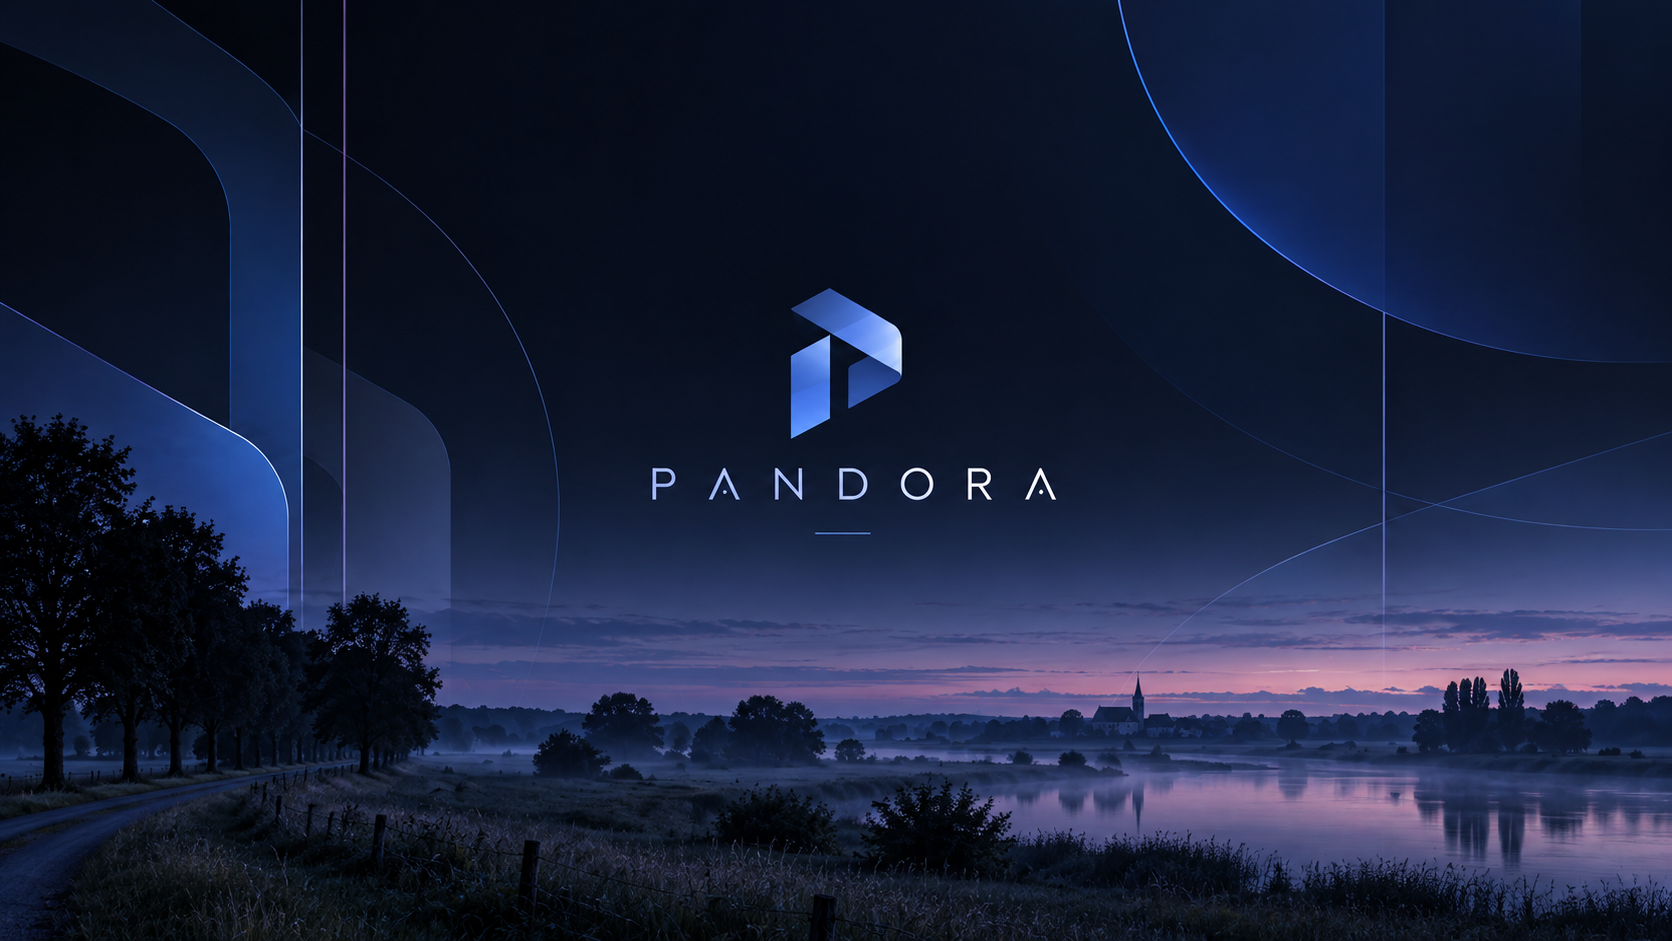
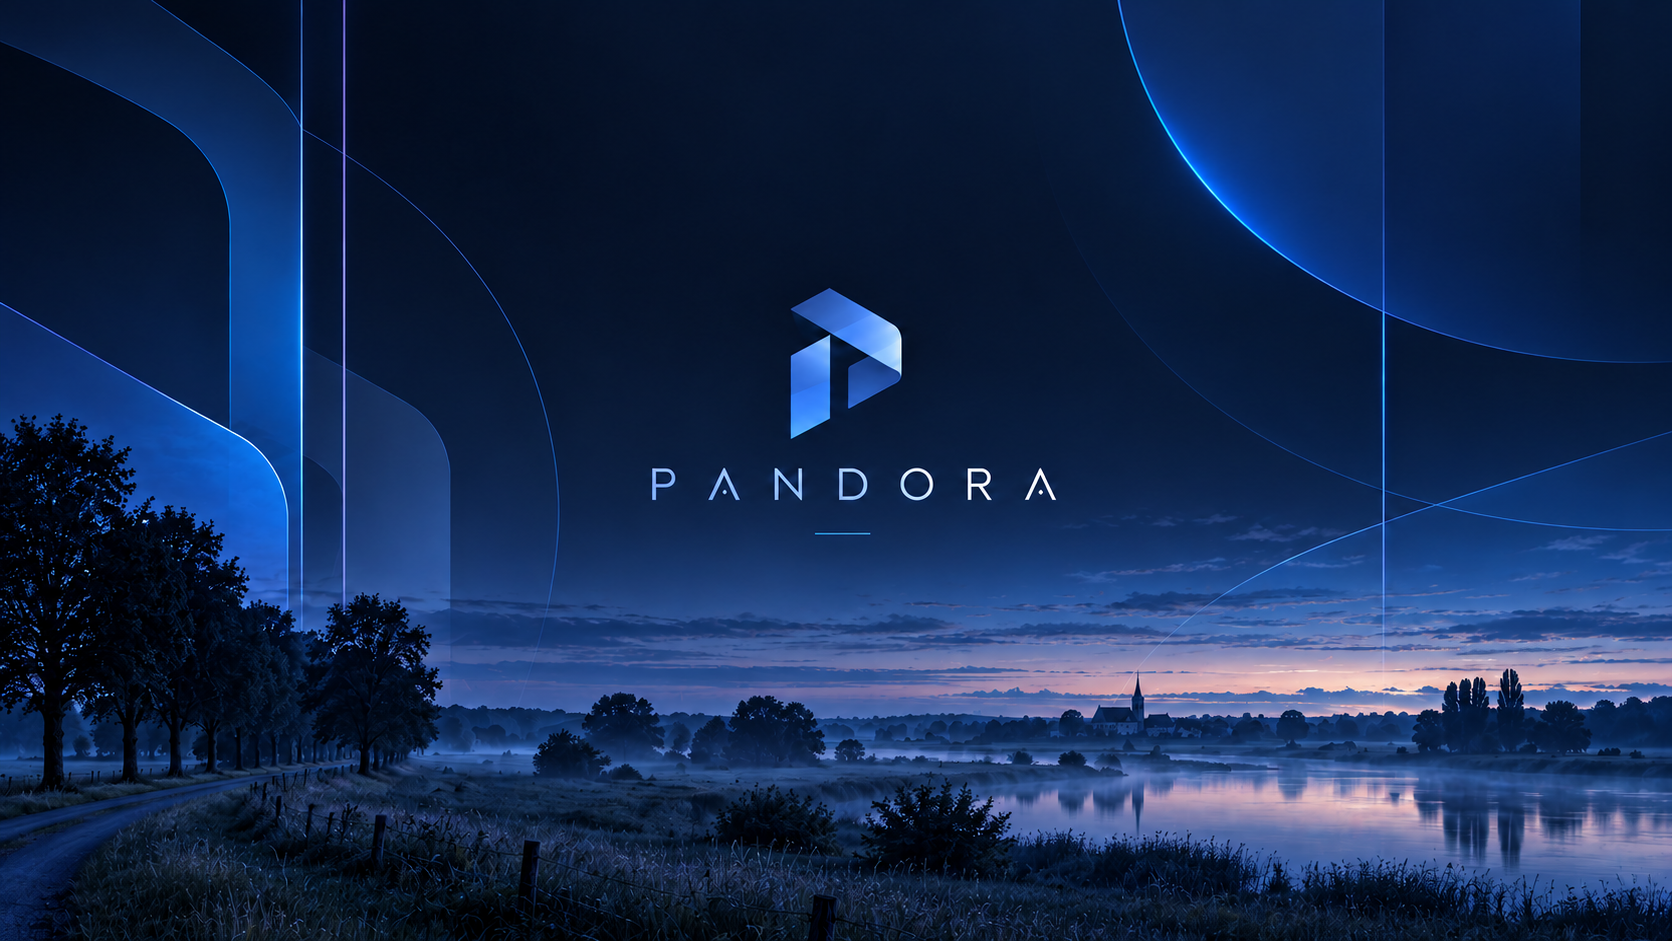
DMS Config and Docker ISO Build

diff --git a/iso.py b/iso.py
@@ -1,8 +1,8 @@
 #!/usr/bin/env python3
 """Build a Fedora netinstall remix from config/, kickstart/ and payload/.
 
-Only local input checks run on other systems. ISO creation requires Fedora 44;
-mkksiso is the only build operation that needs sudo.
+Native ISO creation requires Fedora 44. Other Linux hosts can use the Docker
+builder; mkksiso and its output ownership correction are the only sudo steps.
 """
 import argparse
 import ast
@@ -344,11 +344,78 @@ def verify_iso(root, stage, source_iso, iso, work):
     run("checkisomd5", "--verbose", iso)
 
 
+@contextmanager
+def docker_loop(image):
+    # The short-lived control helper has no repository mounts or network access.
+    control = ("docker", "run", "--rm", "--network", "none", "--read-only", "--user", "0:0",
+               "--cap-drop", "ALL", "--cap-add", "SYS_ADMIN", "--device", "/dev/loop-control",
+               image, "python3", "-c")
+    allocate = """import fcntl, json
+from pathlib import Path
+existing = {path.name for path in Path('/sys/block').glob('loop[0-9]*')}
+with open('/dev/loop-control', 'rb') as control:
+    index = fcntl.ioctl(control, 0x4C82)  # LOOP_CTL_GET_FREE
+major, minor = map(int, Path(f'/sys/block/loop{index}/dev').read_text().strip().split(':'))
+print(json.dumps([index, major, minor, f'loop{index}' not in existing]))
+"""
+    index, major, minor, created = json.loads(run(*control, allocate, capture=True))
+    print(f"Docker builder using /dev/loop{index} ({major}:{minor})", flush=True)
+    try:
+        yield index, major, minor
+    finally:
+        if created:
+            # Remove only a newly created, idle device. Never force-detach a host mapping.
+            release = """import fcntl, sys
+with open('/dev/loop-control', 'rb') as control:
+    fcntl.ioctl(control, 0x4C81, int(sys.argv[1]))  # LOOP_CTL_REMOVE fails if busy
+"""
+            run(*control, release, index)
+
+
+def build_docker(root):
+    if platform.system() != "Linux" or platform.machine() != "x86_64" or os.geteuid() == 0 or os.getegid() == 0:
+        raise ValueError("Docker builds require a normal user on Linux/x86_64")
+    if not shutil.which("docker") or not Path("/dev/loop-control").exists():
+        raise ValueError("Docker builds require Docker and /dev/loop-control; see README.md")
+    endpoint = run("docker", "context", "inspect", "--format", "{{.Endpoints.docker.Host}}", capture=True).strip()
+    if (not endpoint.startswith("unix://") or
+            (os.environ.get("DOCKER_HOST") and not os.environ["DOCKER_HOST"].startswith("unix://"))):
+        raise ValueError("Docker builds require a local Docker daemon, not a remote context")
+    security = json.loads(run("docker", "info", "--format", "{{json .SecurityOptions}}", capture=True))
+    if any("rootless" in option or "userns" in option for option in security):
+        raise ValueError("Rootless Docker and user namespace remapping cannot manage host loop devices")
+    if ":" in str(root):
+        raise ValueError("Docker bind-mount paths must not contain a colon")
+    uid, gid = os.getuid(), os.getgid()
+    image = f"pandora-builder:f44-{uid}-{gid}"
+    run("docker", "build", "--platform", "linux/amd64", "--build-arg", f"BUILD_UID={uid}",
+        "--build-arg", f"BUILD_GID={gid}", "--tag", image, "--file", root / "Dockerfile", root)
+    writable = [directory(root / name) for name in ("cache", "build", "artifacts")]
+    with docker_loop(image) as (index, major, minor):
+        args = ["docker", "run", "--rm", "--init", "--user", "0:0", "--cap-drop", "ALL"]
+        for capability in ("SYS_ADMIN", "MKNOD", "DAC_OVERRIDE", "FOWNER", "CHOWN", "SETUID", "SETGID"):
+            args.extend(("--cap-add", capability))
+        args.extend(("--device-cgroup-rule", f"b {major}:{minor} rwm", "--volume", f"{root}:/work:ro"))
+        for path in writable:
+            args.extend(("--volume", f"{path}:/work/{path.name}:rw"))
+        # Create only the permitted node, then drop to the host user's UID/GID before make iso.
+        start = """import os, stat, sys
+index, major, minor, uid, gid = map(int, sys.argv[1:])
+os.mknod(f'/dev/loop{index}', stat.S_IFBLK | 0o600, os.makedev(major, minor))
+os.setgroups([])
+os.setgid(gid)
+os.setuid(uid)
+os.execv('/usr/bin/make', ['make', 'iso'])
+"""
+        run(*args, image, "python3", "-c", start, index, major, minor, uid, gid)
+
+
 def build(root):
     build_environment(root)
     build_dir = directory(root / "build")
     artifacts = directory(root / "artifacts")
-    with locked(build_dir / ".iso.lock"), tempfile.TemporaryDirectory(prefix="iso-", dir=build_dir) as temporary:
+    # Stage on the output filesystem so atomic publication also works across Docker bind mounts.
+    with locked(build_dir / ".iso.lock"), tempfile.TemporaryDirectory(prefix=".iso-", dir=artifacts) as temporary:
         work = Path(temporary)
         stage = work / "stage"
         stage.mkdir(mode=0o755)
@@ -391,13 +458,15 @@ def build(root):
 
 if __name__ == "__main__":
     parser = argparse.ArgumentParser(description=__doc__)
-    parser.add_argument("action", choices=("check", "build"))
+    parser.add_argument("action", choices=("check", "build", "build-docker"))
     args = parser.parse_args()
     os.environ["LC_ALL"] = "C"
     os.environ["PYTHONDONTWRITEBYTECODE"] = "1"
     try:
         if args.action == "build":
             build(ROOT)
+        elif args.action == "build-docker":
+            build_docker(ROOT)
         else:
             with tempfile.TemporaryDirectory(prefix="pandora-check-") as temporary:
                 check(ROOT, Path(temporary))

diff --git a/README.md b/README.md
@@ -4,7 +4,7 @@ Philipp's Adaptive Native Desktop, built on Fedora.
 
 My personal Fedora remix. Pandora combines a lightweight Fedora base with Hyprland and DankMaterialShell, my terminal setup, and a few carefully chosen defaults. This repository describes the system and builds a custom installation ISO. Use it as a starting point for your own setup.
 
-![Pandora Linux wallpaper](payload/files/usr/share/backgrounds/pandora/wallpaper.png)
+![Pandora Linux desktop](assets/pandora-desktop.png)
 
 ## What's included
 
@@ -27,7 +27,8 @@ This setup has been manually tested for my own use. Before installing it on your
 .
 ├── README.md                      Usage, build, and customization
 ├── AGENTS.md                      Development guidelines
-├── Makefile                       make check, make iso, make clean
+├── Makefile                       make check, make iso, make iso-docker, make clean
+├── Dockerfile                     Fedora 44 build tools, without product files
 ├── iso.py                         Source verification, payload, and ISO build
 ├── config/
 │   ├── profile.json               Language, keyboard, time zone, and ISO name
@@ -48,9 +49,11 @@ This setup has been manually tested for my own use. Before installing it on your
 
 ## Build the ISO
 
-Use a Fedora 44 VM or Fedora 44 x86_64 machine with a regular user account that can use sudo and at least 20 GiB of free space. You can edit the repository on another host, but the ISO must be built on Fedora. The script rejects other releases and refuses to run as root.
+ISO builds run on Fedora 44/x86_64 as a regular user and require at least 20 GiB of free space. Use a Fedora machine or the Docker builder on another Linux host. The Fedora release and non-root checks apply in both cases.
 
-Install the build tools once in the Fedora build environment:
+### Native Fedora build
+
+Use a Fedora 44 VM or Fedora 44 x86_64 machine with a regular user account that can use sudo. Install the build tools once:
 
 ```bash
 sudo dnf install lorax xorriso isomd5sum pykickstart ShellCheck \
@@ -63,6 +66,22 @@ From the cloned project directory:
 make check
 make iso
 ```
+
+### Docker build on Linux
+
+On a Linux/x86_64 host with a running local, rootful Docker daemon, Python 3, Make, and `/dev/loop-control`, run as your normal user:
+
+```bash
+make iso-docker
+```
+
+The first run builds a tools-only Fedora 44 image from the digest pinned in `Dockerfile`. Later runs reuse Docker's image cache. The container runs the same `make iso` with your host UID/GID, so generated files remain yours. The repository is mounted read-only; only `cache/`, `build/`, and `artifacts/` are writable. Host packages, home directories, and the Docker socket are not mounted or modified.
+
+The EFI-image step needs `SYS_ADMIN` and one unused loop device. A short-lived helper with no network or repository mounts selects that device through `/dev/loop-control`. The build container can access only the selected block device and has no loop-control device or physical disks. Only `mkksiso` and its output ownership correction use sudo; the container's initial device-node setup also runs as root. Newly created loop devices are removed after the build if idle; existing devices are not removed, and a busy device is never force-detached.
+
+This uses neither `--privileged` nor disabled integrity checks. Mount capabilities are still powerful, and Docker access itself grants substantial host privileges: build trusted code only. Rootless Docker, user namespace remapping, and remote Docker daemons are not supported. A Fedora VM provides stronger isolation.
+
+### Verification and outputs
 
 `make iso` downloads the original Everything netinstall ISO and Fedora's signed CHECKSUM file. Existing downloads are also re-verified against the pinned Fedora signing key, file size, and SHA256. The build then combines the package lists and local files, renders the Kickstart template, and creates the ISO with `mkksiso`. Only `mkksiso` and the ownership correction for its output require sudo.
 
@@ -130,18 +149,21 @@ Edit the files in the repository and rebuild. `payload/files/` maps to paths on 
 | `payload/files/etc/skel/.config/hypr/hyprland.lua` | Monitors, layout, shortcuts, and DMS startup |
 | `payload/files/etc/skel/.config/ghostty/config` | Terminal settings |
 | `payload/files/etc/skel/.zshrc` | Zsh theme and Oh My Zsh plugins |
-| `payload/files/etc/skel/.local/state/DankMaterialShell/session.json` | DMS defaults, including the wallpaper path |
+| `payload/files/etc/skel/.config/DankMaterialShell/settings.json` | DMS theme, panel, widgets, and workspace settings |
+| `payload/files/etc/skel/.local/state/DankMaterialShell/session.json` | DMS wallpaper path and weather location |
 | `payload/files/usr/share/backgrounds/pandora/wallpaper.png` | Wallpaper |
 
 Hyprland is configured in Lua here. Examples for an older `hyprland.conf` do not apply to this configuration. DMS is started by Hyprland; do not also enable a DMS autostart service.
 
 Add new user defaults under `payload/files/etc/skel/`. The installer applies them to the account created during installation and to future users. Existing personal files are preserved.
 
+DMS starts with the blue theme, a compact top bar, and weather for Berlin. When importing DMS preferences from another installation, leave out launcher history, notes, cache, and hardware-specific session state.
+
 System configuration can go in paths such as `payload/files/etc/NetworkManager/conf.d/`. Prefer your own `conf.d` files where possible. For safety, an existing system file that differs from the provided one is not overwritten. Executable system files need the executable bit (`chmod +x`); user configuration files are installed with mode 0644. SELinux labels are restored.
 
 ### On an installed system
 
-Edit your own files under `~/.config/hypr/`, `~/.config/ghostty/`, and `~/.zshrc`. Reload Hyprland with `hyprctl reload`; for session startup changes, log out and back in. You can change the wallpaper in DMS.
+Edit your own files under `~/.config/hypr/`, `~/.config/ghostty/`, and `~/.zshrc`. Reload Hyprland with `hyprctl reload`; for session startup changes, log out and back in. Adjust the panel, theme, widgets, and wallpaper in DMS.
 
 Repository changes do not modify an existing installation. Apply any settings you want there deliberately; the installation scripts are not an update tool for a running system.
 
